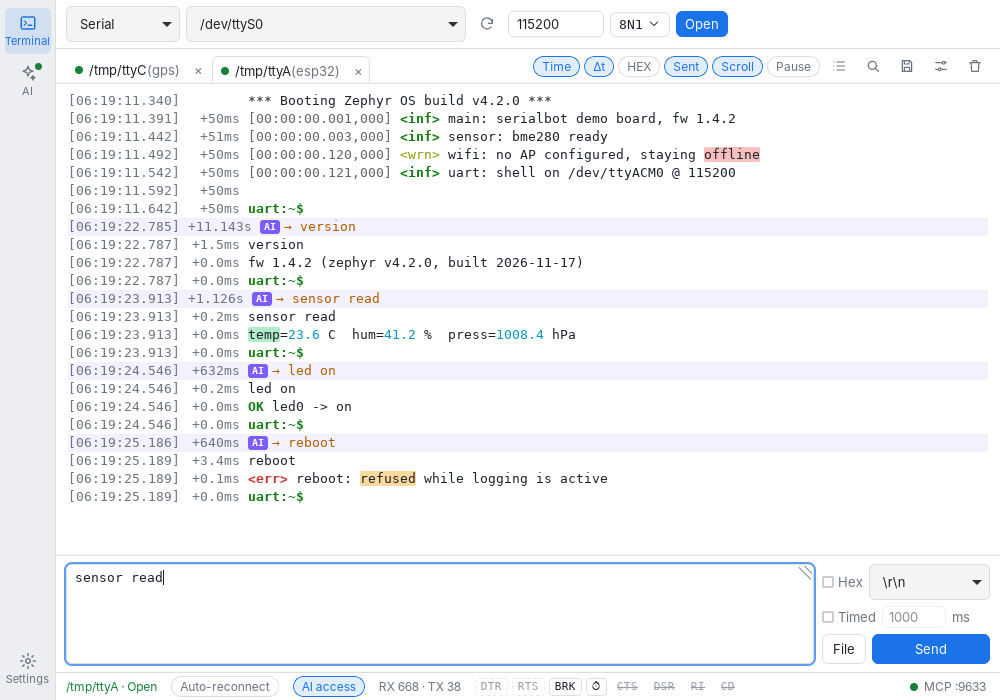
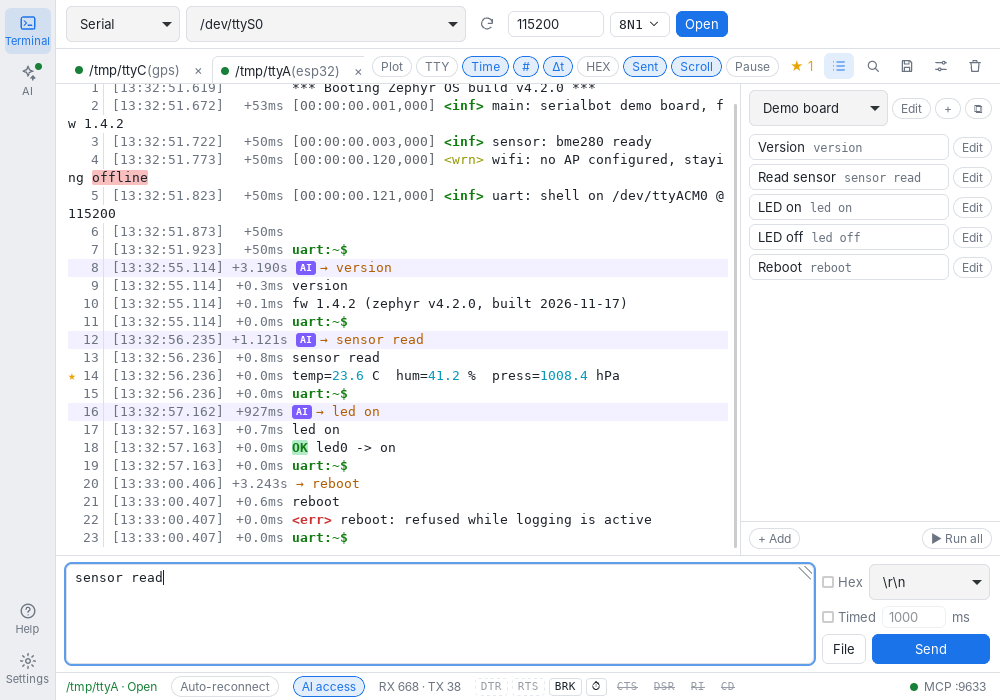
docs: refresh screenshots and add a gallery to the site (#68)
New shots of plot, terminal mode, the command window and the help page;
terminal, settings and the demo GIF retaken with the beta.

diff --git a/site/template.html b/site/template.html
@@ -75,6 +75,16 @@
   <dl>{{features}}</dl>
 </section>
 
+<section id="screens" class="screens">
+  <h2>{{screens_title}}</h2>
+  <div class="gallery">
+    <figure><img src="{{root}}images/terminal-dark.png" width="1000" height="700" alt="{{shot_terminal}}" loading="lazy"><figcaption>{{shot_terminal}}</figcaption></figure>
+    <figure><img src="{{root}}images/plot-dark.png" width="1000" height="700" alt="{{shot_plot}}" loading="lazy"><figcaption>{{shot_plot}}</figcaption></figure>
+    <figure><img src="{{root}}images/tty-dark.png" width="1000" height="700" alt="{{shot_tty}}" loading="lazy"><figcaption>{{shot_tty}}</figcaption></figure>
+    <figure><img src="{{root}}images/command-window.png" width="1460" height="756" alt="{{shot_commands}}" loading="lazy"><figcaption>{{shot_commands}}</figcaption></figure>
+  </div>
+</section>
+
 <section class="mcp">
   <h2>{{mcp_title}}</h2>
   <p>{{mcp_intro}}</p>

diff --git a/site/style.css b/site/style.css
@@ -388,6 +388,40 @@ main > section.hero {
   color: var(--ink-soft);
 }
 
+.gallery {
+  display: grid;
+  grid-template-columns: repeat(2, minmax(0, 1fr));
+  align-items: start;
+  gap: 32px 28px;
+  margin-top: 28px;
+  max-width: 1100px;
+}
+
+.gallery figure {
+  margin: 0;
+}
+
+.gallery img {
+  display: block;
+  width: 100%;
+  height: auto;
+  border: 1px solid var(--grid);
+  border-radius: 8px;
+}
+
+.gallery figcaption {
+  margin-top: 10px;
+  color: var(--ink-soft);
+  font-size: 15px;
+  max-width: 62ch;
+}
+
+@media (max-width: 720px) {
+  .gallery {
+    grid-template-columns: minmax(0, 1fr);
+  }
+}
+
 .mcp pre {
   max-width: 76ch;
   margin: 20px 0;

diff --git a/README.md b/README.md
@@ -82,7 +82,13 @@ You stay in charge. Every change to a port needs your approval, and every line t
 
 | Dark | Light |
 |:---:|:---:|
-| <img src="docs/images/terminal-dark.png" alt="Terminal in the dark theme: an agent's commands tagged AI, keywords highlighted, Δt column"> | <img src="docs/images/terminal-light.png" alt="The same terminal in the light theme"> |
+| <img src="docs/images/terminal-dark.png" alt="Terminal in the dark theme: an agent's commands tagged AI next to a command sent from the list, line numbers, Δt, a bookmarked line and the command list"> | <img src="docs/images/terminal-light.png" alt="The same terminal in the light theme"> |
+
+| 📈 Plot | 🖥 Terminal mode |
+|:---:|:---:|
+| <img src="docs/images/plot-dark.png" alt="Temperature, humidity and pressure from the log drawn as live curves, each on its own scale, with the values under the cursor"> | <img src="docs/images/tty-dark.png" alt="Terminal mode: vim editing a Zephyr main.c on a board's shell"> |
+| **📋 Command list in its own window** | **❓ Help page** |
+| <img src="docs/images/command-window.png" alt="The main window next to the command window, which sends the Demo board commands to esp32"> | <img src="docs/images/help-dark.png" alt="Help page: what SerialBot is for, getting started, and what each control does"> |
 
 <details>
 <summary>✅ Approving what an AI agent wants to do</summary>
@@ -101,7 +107,7 @@ You stay in charge. Every change to a port needs your approval, and every line t
 <details>
 <summary>⚙ Settings</summary>
 
-<img src="docs/images/settings-dark.png" width="800" alt="Settings page: theme, log font size, lines kept, keep on top">
+<img src="docs/images/settings-dark.png" width="800" alt="Settings page: theme, language, log font size, lines kept, keep on top">
 
 </details>
 

diff --git a/README.zh-CN.md b/README.zh-CN.md
@@ -82,7 +82,13 @@ SerialBot 补上的就是这一环，让 Agent 直接面对设备：
 
 | 深色主题 | 浅色主题 |
 |:---:|:---:|
-| <img src="docs/images/terminal-dark.png" alt="深色主题的终端页：AI 发送的命令带 AI 标记，关键字高亮，Δt 列"> | <img src="docs/images/terminal-light.png" alt="浅色主题的终端页"> |
+| <img src="docs/images/terminal-dark.png" alt="深色主题的终端页：AI 发送的命令带 AI 标记，旁边是从命令列表发送的命令；行号、Δt、收藏的行和命令列表"> | <img src="docs/images/terminal-light.png" alt="浅色主题的终端页"> |
+
+| 📈 波形图 | 🖥 终端模式 |
+|:---:|:---:|
+| <img src="docs/images/plot-dark.png" alt="日志中的温度、湿度、气压实时画成曲线，每条曲线独立缩放，下方显示光标处的数值"> | <img src="docs/images/tty-dark.png" alt="终端模式：在开发板 shell 里用 vim 编辑 Zephyr 的 main.c"> |
+| **📋 命令列表独立窗口** | **❓ 帮助页** |
+| <img src="docs/images/command-window.png" alt="主窗口旁边是命令窗口，把 Demo board 组的命令发往 esp32"> | <img src="docs/images/help-dark.png" alt="帮助页：用途、快速上手和各个按钮的作用"> |
 
 <details>
 <summary>✅ AI 操作前的确认弹窗</summary>
@@ -101,7 +107,7 @@ SerialBot 补上的就是这一环，让 Agent 直接面对设备：
 <details>
 <summary>⚙ 设置页</summary>
 
-<img src="docs/images/settings-dark.png" width="800" alt="设置页：主题、日志字号、保留行数、窗口置顶">
+<img src="docs/images/settings-dark.png" width="800" alt="设置页：主题、语言、日志字号、保留行数、窗口置顶">
 
 </details>
 
